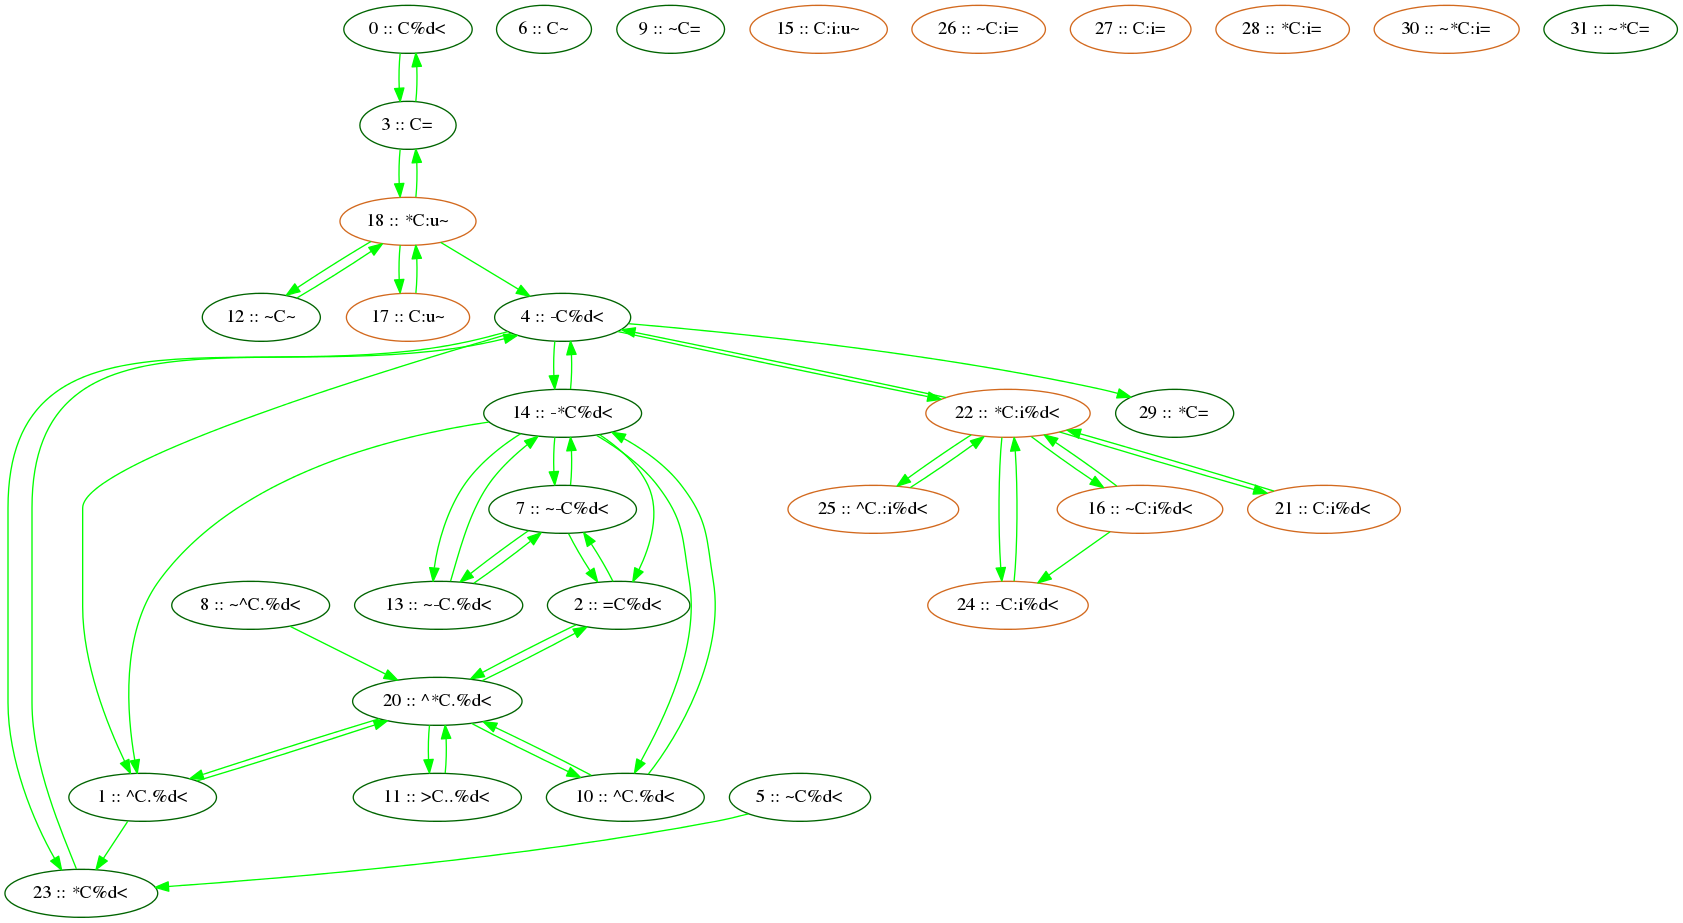
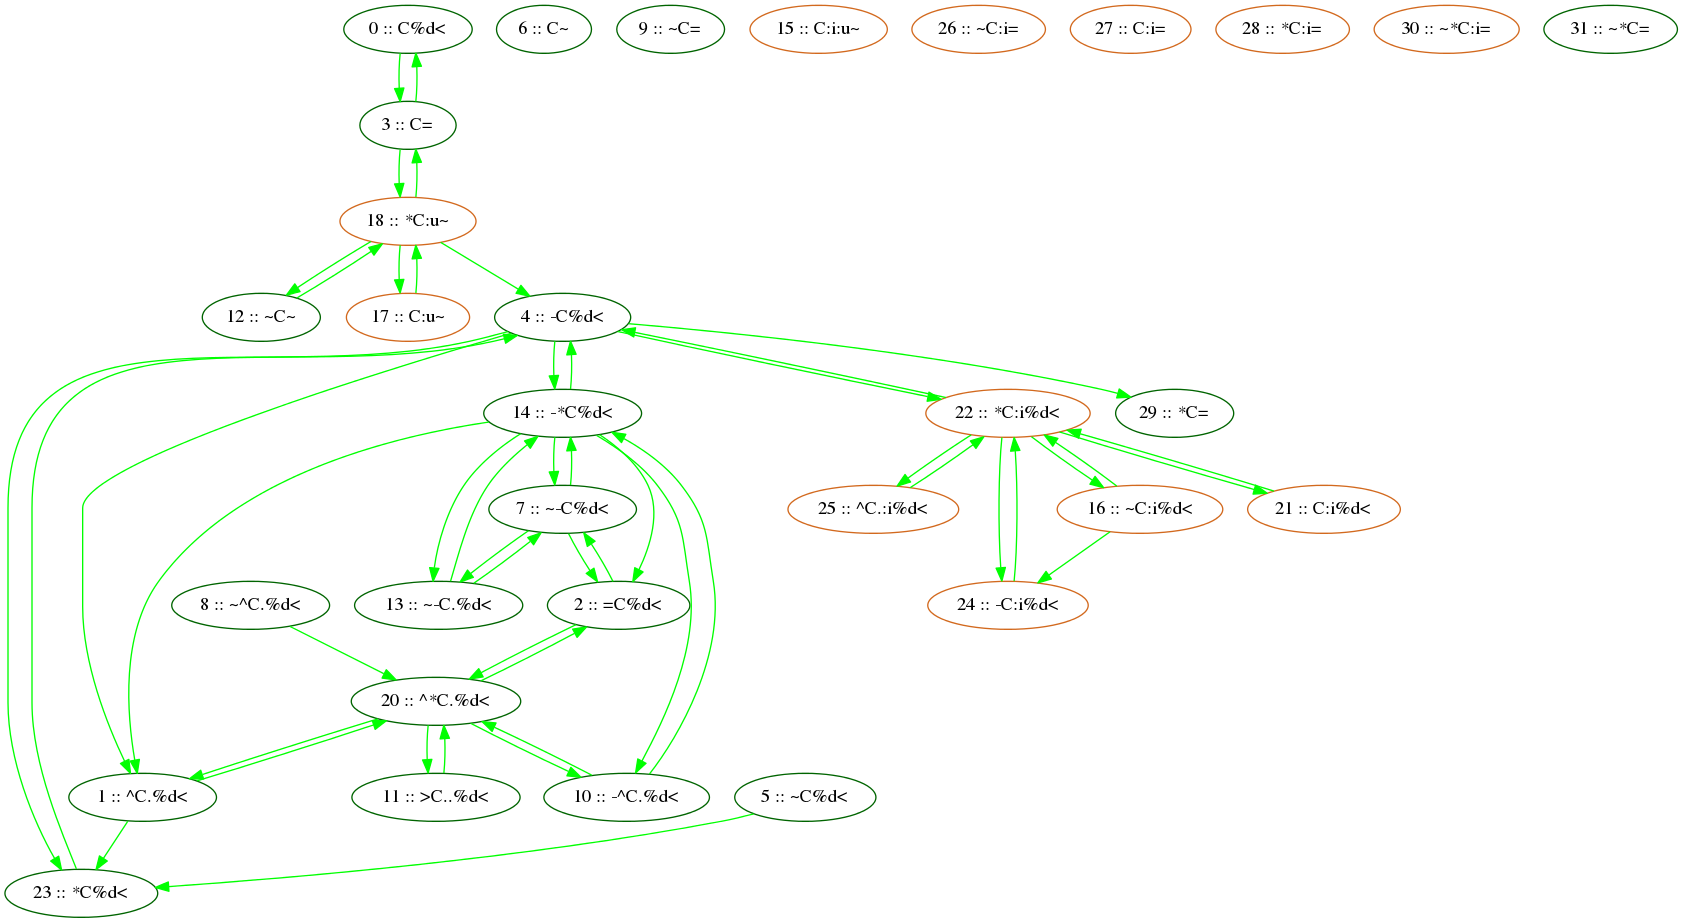
fix pseudographical representaion of 10 atom type

Changed region(s): [[0.2163, 0.7281, 0.5253, 0.9101], [0.1545, 0.7887, 0.2163, 0.8191], [0.1236, 0.8191, 0.1545, 0.8494]]

diff --git a/config_parser/lib/tools/atom_classifier.rb b/config_parser/lib/tools/atom_classifier.rb
@@ -134,7 +134,9 @@ module VersatileDiamond
             name = "^#{name}"
           elsif remove_one(rl, :dbond)
             name = "=#{name}"
-          elsif remove_one(rl, bond_front_100)
+          end
+
+          if remove_one(rl, bond_front_100)
             name = "-#{name}"
           end
 

diff --git a/README.md b/README.md
@@ -42,7 +42,7 @@ Base specs: [15]
                                  vinyl_on_dimer |     8 |     8 |   7 :  ~-C%d<  1 |   1 :  ^C.%d<  4 |   9 :     ~C=  1 |   3 :      C=  1 |   4 :   -C%d<  1
                            extended_high_bridge |     8 |     8 |   3 :      C=  1 |   2 :   =C%d<  1 |   1 :  ^C.%d<  6
                       extended_methyl_on_bridge |     8 |    10 |   6 :      C~  1 |   5 :   ~C%d<  1 |   1 :  ^C.%d<  6
-                              bridge_with_dimer |    10 |    10 |   4 :   -C%d<  1 |   1 :  ^C.%d<  7 |  10 :  ^C.%d<  1 |   0 :    C%d<  1
+                              bridge_with_dimer |    10 |    10 |   4 :   -C%d<  1 |   1 :  ^C.%d<  7 |  10 : -^C.%d<  1 |   0 :    C%d<  1
                          cross_bridge_on_dimers |    13 |    12 |  12 :     ~C~  1 |   4 :   -C%d<  2 |   1 :  ^C.%d<  8 |  13 : ~-C.%d<  2
                                  extended_dimer |    14 |    14 |   4 :   -C%d<  2 |   1 :  ^C.%d< 12
 
@@ -76,8 +76,8 @@ Specific specs: [34]
                     extended_high_bridge(cr: *) |   9.0 |     7 |   3 :      C=  1 |   2 :   =C%d<  1 |   1 :  ^C.%d<  5 |  20 : ^*C.%d<  1
                     extended_high_bridge(ch: *) |   9.0 |     7 |   2 :   =C%d<  1 |   1 :  ^C.%d<  6 |  29 :     *C=  1
  extended_methyl_on_bridge(cb: i, cm: *, cm: u) |  9.68 |     9 |   1 :  ^C.%d<  6 |  16 : ~C:i%d<  1 |  18 :   *C:u~  1
-                     bridge_with_dimer(_cl0: i) | 10.34 |    10 |   1 :  ^C.%d<  7 |  10 :  ^C.%d<  1 |   0 :    C%d<  1 |  24 : -C:i%d<  1
-              bridge_with_dimer(cl: *, _cl0: i) | 11.34 |     9 |   1 :  ^C.%d<  6 |  10 :  ^C.%d<  1 |   0 :    C%d<  1 |  20 : ^*C.%d<  1 |  24 : -C:i%d<  1
+                     bridge_with_dimer(_cl0: i) | 10.34 |    10 |   1 :  ^C.%d<  7 |  10 : -^C.%d<  1 |   0 :    C%d<  1 |  24 : -C:i%d<  1
+              bridge_with_dimer(cl: *, _cl0: i) | 11.34 |     9 |   1 :  ^C.%d<  6 |  10 : -^C.%d<  1 |   0 :    C%d<  1 |  20 : ^*C.%d<  1 |  24 : -C:i%d<  1
                        cross_bridge_on_dimers() |  13.0 |    12 |  12 :     ~C~  1 |   4 :   -C%d<  2 |   1 :  ^C.%d<  8 |  13 : ~-C.%d<  2
                           extended_dimer(cr: i) | 14.34 |    14 |   4 :   -C%d<  1 |   1 :  ^C.%d< 12 |  24 : -C:i%d<  1
                           extended_dimer(cr: *) |  15.0 |    13 |   4 :   -C%d<  1 |   1 :  ^C.%d< 12 |  14 :  -*C%d<  1
